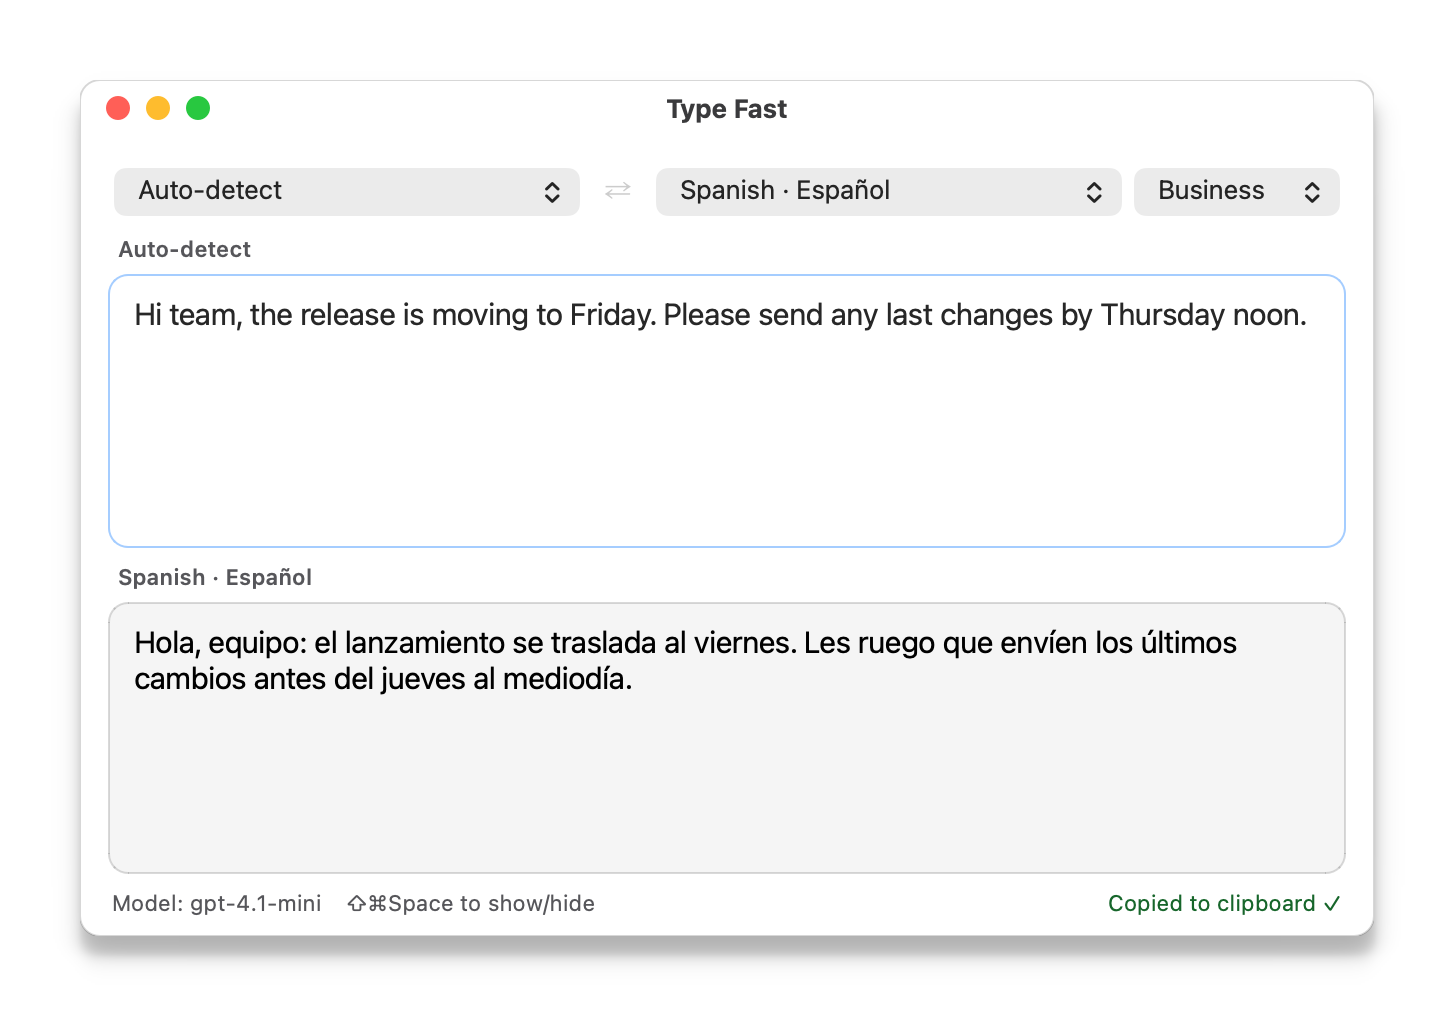
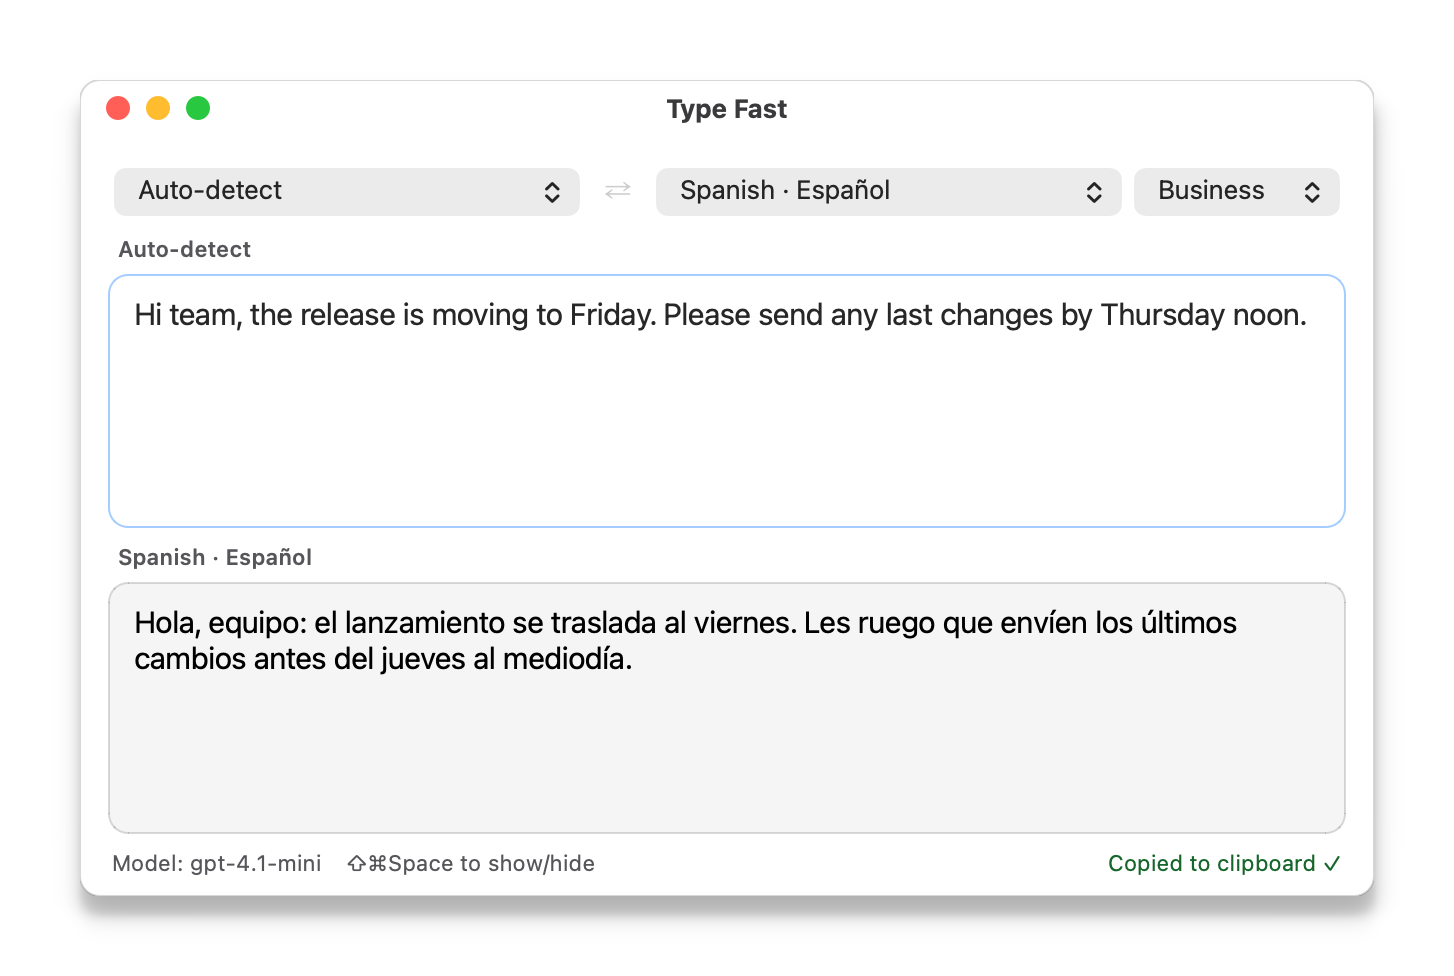
docs: draw the languages screenshot at the launch size
Render languages.png at the 460x380 launch size, like the other images.
The full layout widens the window to its minimum width, as in the app.

diff --git a/scripts/make_screenshots.py b/scripts/make_screenshots.py
@@ -79,9 +79,9 @@ SHADOW_MARGIN = 40
 CHAT_X, CHAT_Y, CHAT_W, CHAT_H = 110, 24, 600, 600
 COMPOSE_H = 36
 
-# The Type Fast window at its launch size (type_fast.app.main), in the compact
-# layout the hotkey uses, centered in the upper part of the screen like
-# MainWindow._center_on_cursor_screen.
+# The Type Fast window at its launch size (type_fast.app.main). In the demo it
+# is in the compact layout the hotkey uses, centered in the upper part of the
+# screen like MainWindow._center_on_cursor_screen.
 POPUP_W, POPUP_H = 460, 380
 POPUP_X = (SCENE_W - POPUP_W) // 2
 POPUP_Y = (SCENE_H - POPUP_H - TITLE_H) // 4
@@ -338,9 +338,10 @@ class Renderer:
         _save_png(_shadowed(_framed(self._render(window), "Type Fast")), self.out / "hotkey.png")
 
     def _languages_png(self) -> None:
+        # At launch size, the full layout widens the window to its minimum width.
         window = self._window(
             source=self.config.AUTO_SOURCE, target="Spanish", tone="Business", compact=False,
-            size=(600, 400),
+            size=(POPUP_W, POPUP_H),
         )
         self._fill(
             window,
